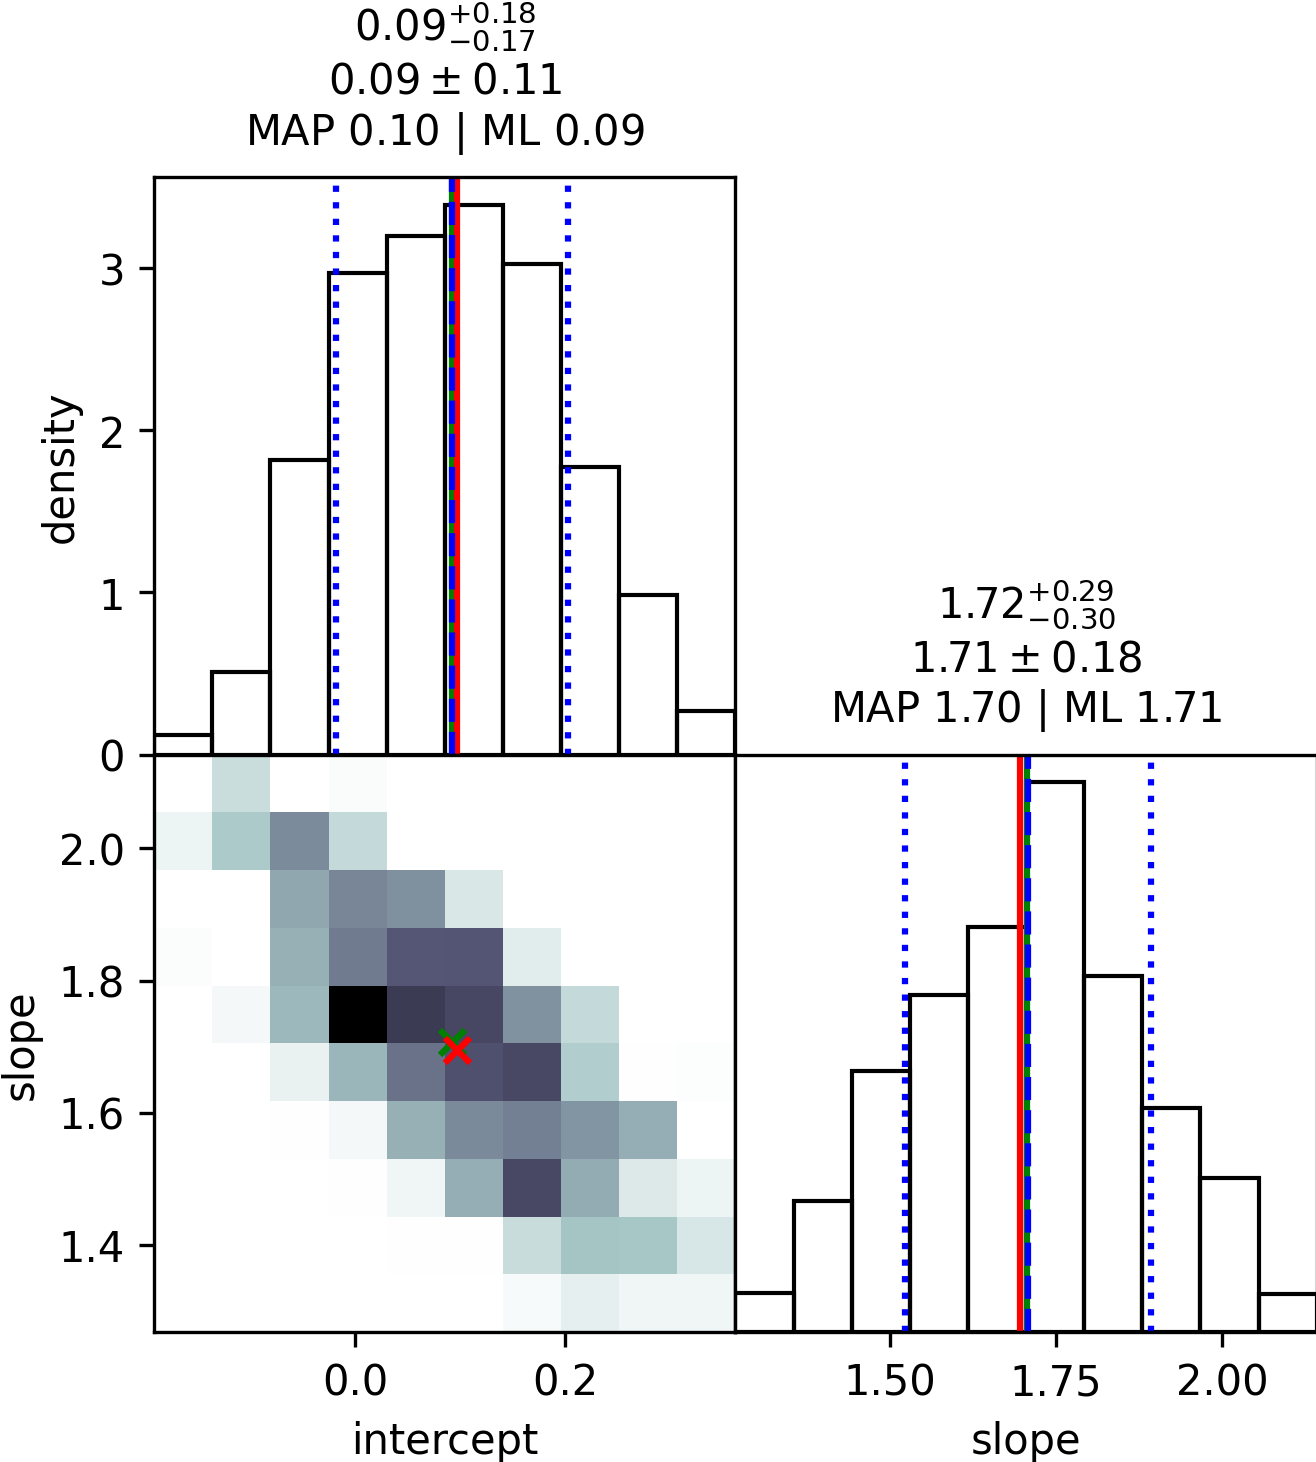
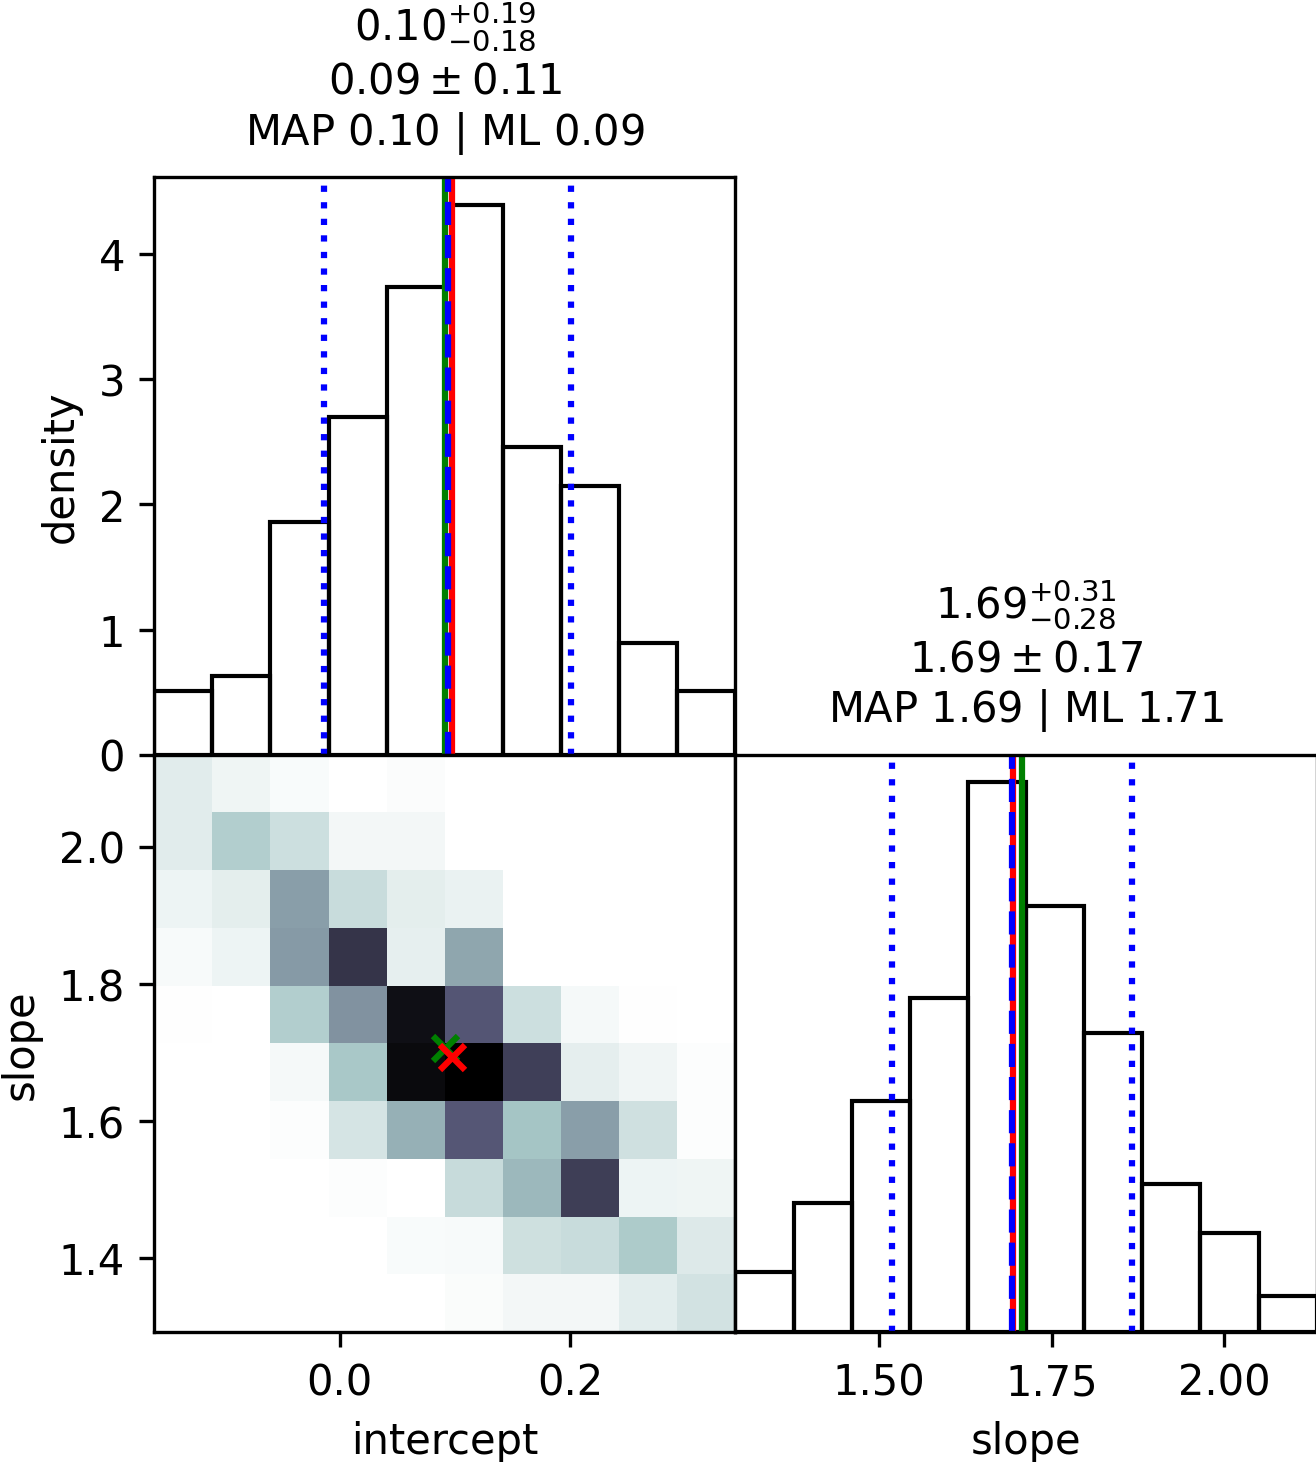
Use representative README evidence seed

diff --git a/cicd/demos/readme_quick_start.py b/cicd/demos/readme_quick_start.py
@@ -60,12 +60,9 @@ def run_quick_start() -> NestedSamplerResults:
     sampler = NestedSampler(
         model=model,
         args=args,
-        root_allocation_degree=60,
-        shell_size=20,
-        max_samples=10_000,
         collect_phantom_samples=True,
     )
-    state = sampler.run(key=jax.random.PRNGKey(2))
+    state = sampler.run(key=jax.random.PRNGKey(6))
     jax.block_until_ready(state)
     return state.to_result().trim()
 

diff --git a/README.md b/README.md
@@ -158,12 +158,9 @@ from jaxns.core import NestedSampler
 sampler = NestedSampler(
     model=model,
     args=args,
-    root_allocation_degree=60,
-    shell_size=20,
-    max_samples=10_000,
     collect_phantom_samples=True,
 )
-state = sampler.run(key=jax.random.PRNGKey(2))
+state = sampler.run(key=jax.random.PRNGKey(6))
 results = state.to_result().trim()
 
 results.summary()
@@ -184,22 +181,22 @@ A fixed-seed CPU run of the example above produces this summary:
 Termination Conditions:
 Small remaining evidence
 --------
-likelihood evals: 48086
-classic samples: 813
-phantom samples: 1506
-likelihood evals / sample: 59.1
+likelihood evals: 50435
+classic samples: 818
+phantom samples: 1516
+likelihood evals / sample: 61.7
 --------
-logZ (classic expected)=-0.3 +- 0.27
+logZ (classic expected)=-0.38 +- 0.28
 max(logL)=5.31
-H=4.5
-posterior ESS (Kish)=114.3
-likelihood evals / posterior ESS: 420.7
+H=4.74
+posterior ESS (Kish)=109.5
+likelihood evals / posterior ESS: 460.8
 --------
 intercept: mean +- std.dev. | MAP est. | max(L) est.
 intercept: 0.09 +- 0.11 | 0.1 | 0.09
 --------
 slope: mean +- std.dev. | MAP est. | max(L) est.
-slope: 1.71 +- 0.18 | 1.7 | 1.71
+slope: 1.69 +- 0.17 | 1.69 | 1.71
 --------
 ```
 
@@ -214,14 +211,11 @@ intercept--slope trade-off visible. The diagnostics show how live lineages,
 likelihood, evidence, efficiency, and `X * L` evolve through the run. Because
 this is a linear-Gaussian model, its exact log-evidence is available
 analytically; the evidence histogram shows both explicit conditioning modes
-against that value instead of relying on a single point estimate. The
-retained fixed seed moves the phantom-conditioned ensemble farther from the
-exact value, but it remains within 1.14 reported standard deviations. Across
-30 independently sampled runs, the
-phantom-conditioned mean was -0.2752 against the exact -0.2744, with lower
-RMSE than classic conditioning (0.232 versus 0.297); the displayed movement
-is therefore a transparent single-run fluctuation, not a selected favorable
-seed.
+against that value instead of relying on a single point estimate. Across 30
+independently sampled runs, the phantom-conditioned mean was -0.2752 against
+the exact -0.2744, with lower RMSE than classic conditioning (0.232 versus
+0.297). The displayed fixed seed was selected to reflect that calibration
+result instead of highlighting an unrepresentative downward fluctuation.
 
 The summary and plots are regenerated headlessly from the same code with
 `conda run -n jaxns_py python cicd/demos/readme_quick_start.py --write-assets`.
